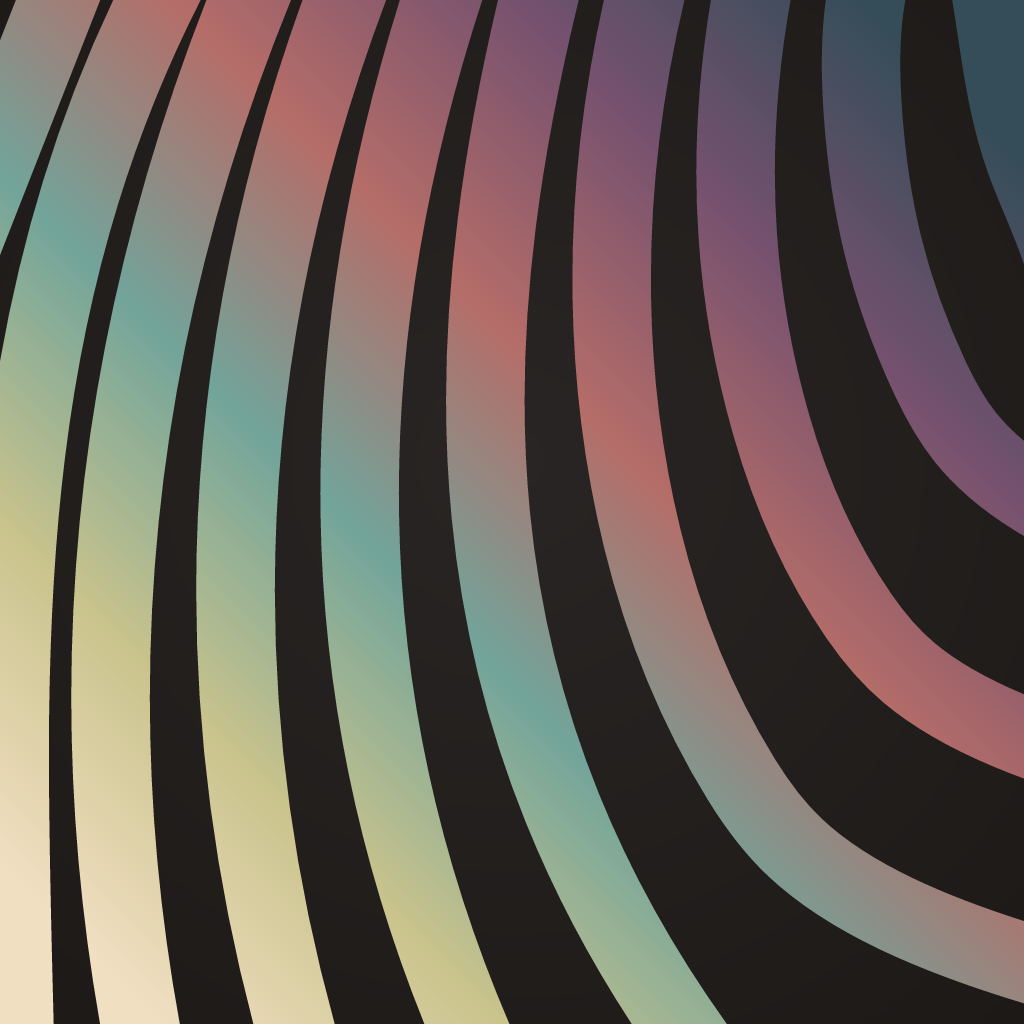
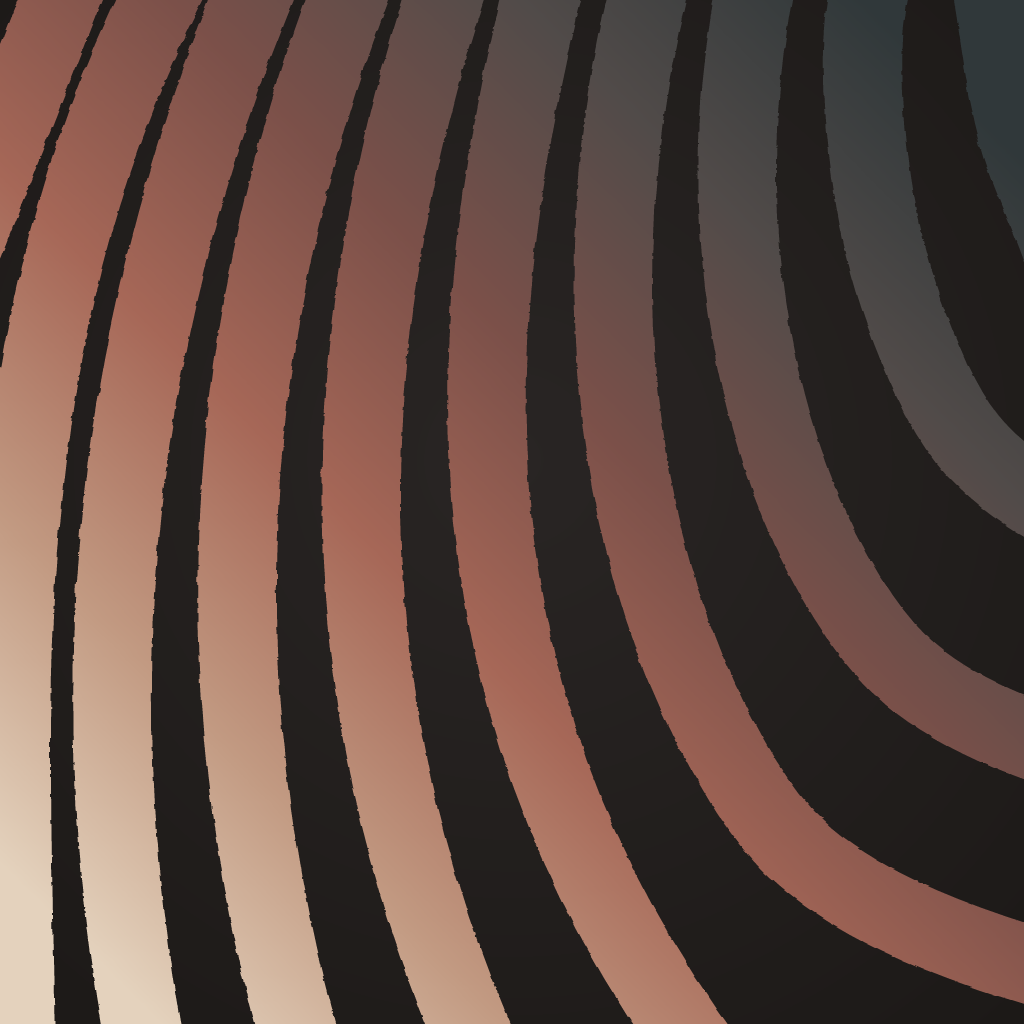
feat: adopt red granite block-print identity

diff --git a/cli/src/dotfiles/banner.py b/cli/src/dotfiles/banner.py
@@ -1,4 +1,4 @@
-"""DOTFILES wordmark with the horizontal Agate gradient."""
+"""DOTFILES wordmark with the horizontal Red Granite gradient."""
 
 from __future__ import annotations
 
@@ -18,14 +18,14 @@ BLOCK_LINES: tuple[str, ...] = (
     "╚═════╝  ╚═════╝    ╚═╝   ╚═╝     ╚═╝╚══════╝╚══════╝╚══════╝",
 )
 
-# Shell and lichen through sea glass, clay, plum, and slate.
+# Feldspar and iron through quartz, black mica, and mineral gray.
 _STOPS = (
-    (241, 223, 194),
-    (201, 195, 140),
-    (114, 164, 154),
-    (181, 109, 104),
-    (117, 81, 111),
-    (52, 77, 88),
+    (228, 210, 189),
+    (194, 154, 130),
+    (166, 103, 87),
+    (123, 80, 73),
+    (81, 75, 73),
+    (48, 56, 58),
 )
 
 

diff --git a/cli/src/dotfiles/test_banner.py b/cli/src/dotfiles/test_banner.py
@@ -7,6 +7,6 @@ def test_gradient_banner_preserves_wordmark_and_colors() -> None:
     banner = gradient_banner()
     assert banner.plain.rstrip().splitlines() == list(BLOCK_LINES)
     assert banner.spans
-    assert str(banner.spans[0].style) == "#344d58"
-    assert _STOPS[0] == (241, 223, 194)
-    assert _STOPS[-1] == (52, 77, 88)
+    assert str(banner.spans[0].style) == "#30383a"
+    assert _STOPS[0] == (228, 210, 189)
+    assert _STOPS[-1] == (48, 56, 58)
